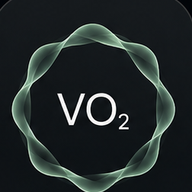
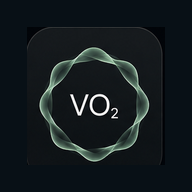
Add files via upload

diff --git a/index.html b/index.html
@@ -8,11 +8,11 @@
   <meta name="apple-mobile-web-app-status-bar-style" content="black-translucent">
   <meta name="apple-mobile-web-app-title" content="VO₂ Breathe">
   <meta name="description" content="Track VO₂ max, train aerobic fitness, and practice performance-focused breathing.">
-  <meta name="vo2-breathe-build" content="7.9.0">
+  <meta name="vo2-breathe-build" content="7.9.1">
   <link rel="manifest" href="./manifest.webmanifest">
   <link rel="icon" href="./icon-192.png">
   <link rel="apple-touch-icon" href="./apple-touch-icon.png">
-  <link rel="stylesheet" href="./styles-v7-9.css?v=7.9.0">
+  <link rel="stylesheet" href="./styles-v7-9.css?v=7.9.1">
   <title>VO₂ Breathe</title>
 </head>
 <body>
@@ -576,7 +576,7 @@
       </div>
     </div>
     <div id="toast" class="toast" role="status" aria-live="polite"></div>
-<script src="./app-v7-9.js?v=7.9.0"></script>
+<script src="./app-v7-9.js?v=7.9.1"></script>
 <script>
 if ("serviceWorker" in navigator) {
   window.addEventListener("load", () => navigator.serviceWorker.register("./sw.js").catch(() => {}));

diff --git a/sw.js b/sw.js
@@ -1,5 +1,5 @@
-const CACHE="vo2-breathe-v7-9";
-const ASSETS=["./","./index.html","./styles-v7-9.css?v=7.9.0","./app-v7-9.js?v=7.9.0","./manifest.webmanifest","./icon-192.png","./icon-512.png","./apple-touch-icon.png"];
+const CACHE="vo2-breathe-v7-9-1";
+const ASSETS=["./","./index.html","./styles-v7-9.css?v=7.9.1","./app-v7-9.js?v=7.9.1","./manifest.webmanifest","./icon-192.png","./icon-512.png","./apple-touch-icon.png"];
 self.addEventListener("install",e=>{e.waitUntil(caches.open(CACHE).then(c=>c.addAll(ASSETS)));self.skipWaiting();});
 self.addEventListener("activate",e=>{e.waitUntil(caches.keys().then(keys=>Promise.all(keys.filter(k=>k!==CACHE).map(k=>caches.delete(k)))));self.clients.claim();});
 self.addEventListener("fetch",e=>{

diff --git a/README.md b/README.md
@@ -1,12 +1,6 @@
-# VO₂ Breathe PWA v7.9
+# VO₂ Breathe PWA v7.9.1
 
-Final PWA polish before native feature integration:
-- Replaces the app/Home Screen icon with the minimal Deep Space Soft Wave concept.
-- Keeps all v7.8 Breathe animation, carousel, Today reorder, settings, and onboarding behavior unchanged.
-- Uses new v7.9 asset names/cache so the icon update refreshes cleanly.
-
-Next phase:
-- Native Apple Health / HealthKit integration
-- Notifications
-- Native haptics
-- Apple Watch sensor integration
+Icon-only hotfix:
+- Re-centers the minimal Deep Space artwork.
+- Adds safe-area padding so iOS/PWA icon masking does not crop or visually offset the mark.
+- App functionality is unchanged from v7.9/v7.8.
